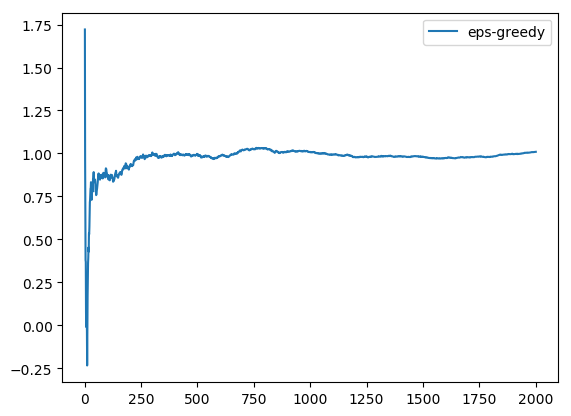
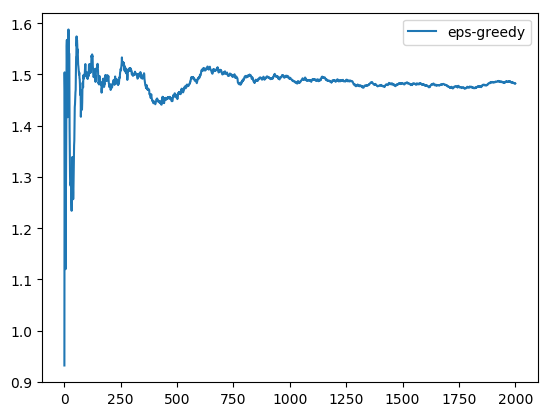
thompson added

diff --git a/assignment1/bandit.py b/assignment1/bandit.py
@@ -20,33 +20,47 @@ class bandit:
         #epsilon greedy method
         if(eps>self.eps):
             #get greedy action and resolve ties randomly
-            action = np.random.choice(np.flatnonzero(self.expected_rewards == self.expected_rewards.max()))
+            N = self.alphas + self.betas
+            expected_rewards = np.divide(self.alphas, N, where=N!=0)
+
+            action = np.random.choice(np.flatnonzero(expected_rewards == expected_rewards.max()))
         else:
             #get random action
-            action = np.random.choice(3)
+            action = np.random.choice(self.k)
 
         return action
 
     def ucb(self, t):
-        if(t>1):
-            #expected rewards till t-1 for all actions
-            Q_a = self.expected_rewards
-            #count till t-1 for all actions
-            N = self.actioncounts
-            #add ucb term to get new expected reward
-            Q_a = Q_a + self.c * np.sqrt(np.divide(np.log(t-1), N, where=N!=0))
-            #get greedy action and resolve ties randomly
-            action = np.random.choice(np.flatnonzero(Q_a == Q_a.max()))
-        else:
-            action = np.random.choice(np.flatnonzero(self.expected_rewards == self.expected_rewards.max()))
+        #count till t-1 for all actions
+        N = self.alphas + self.betas
+        #expected rewards till t-1 for all actions
+        Q_a = np.divide(self.alphas, N, where=N!=0)
+        Q_a = Q_a + self.c * np.sqrt(np.divide(np.log(t), N+1.))
+
+        #Q_a = Q_a + self.c * np.sqrt(np.divide(np.log(t-1), N, where=N!=0))
+        #get greedy action and resolve ties randomly
+        action = np.random.choice(np.flatnonzero(Q_a == Q_a.max()))
 
         return action
+
+    def thompson(self):
+        N = self.alphas + self.betas
+        expected_rewards = np.divide(self.alphas, N, where=N!=0)
+        #sample rewards
+        sampled_rewards = np.random.normal(expected_rewards, 1./(N+1.))
+        #pick greedy action
+        action = np.random.choice(np.flatnonzero(sampled_rewards == sampled_rewards.max()))
+
+        return action
+
     def chooseAction(self, t):
         #get action
         if(self.name=="eps-greedy"):
             action = self.epsilongreedy()
         elif(self.name=="ucb"):
             action = self.ucb(t)
+        elif(self.name=="thompson"):
+            action = self.thompson()
 
         #update action count
         self.actioncounts[action] = self.actioncounts[action] + 1
@@ -57,6 +71,8 @@ class bandit:
     def updateRewards(self, action, reward):
         #self.expected_rewards[action] = (self.expected_rewards[action] * (self.actioncounts[action]-1) + reward) / self.actioncounts[action]
         self.expected_rewards[action] = self.expected_rewards[action] + (reward - self.expected_rewards[action])/self.actioncounts[action]
+        self.alphas[action] += reward
+        self.betas[action] += 1. - reward
 
     def iterate(self, t):
         #choose an action, return arm number
@@ -83,6 +99,10 @@ class bandit:
         #maintain expected rewards
         self.expected_rewards = np.zeros(self.k)
         self.actioncounts = np.zeros(self.k)
+        #successes
+        self.alphas = np.zeros(self.k)
+        #failures
+        self.betas = np.zeros(self.k)
         self.avg_reward = 0.
 
         avg_reward_overtime = []
@@ -104,10 +124,12 @@ class bandit:
 
 
 #initialize bandit of size 10
-trybandit = bandit(k=10)
+trybandit = bandit(k=5)
 timesteps = 2000
 #run bandit
 trybandit.start(timesteps, name="eps-greedy", eps=0.01)
 trybandit.plot("plots")
 trybandit.start(timesteps, name="ucb", c=2.)
+trybandit.plot("plots")
+trybandit.start(timesteps, name="thompson")
 trybandit.plot("plots")
